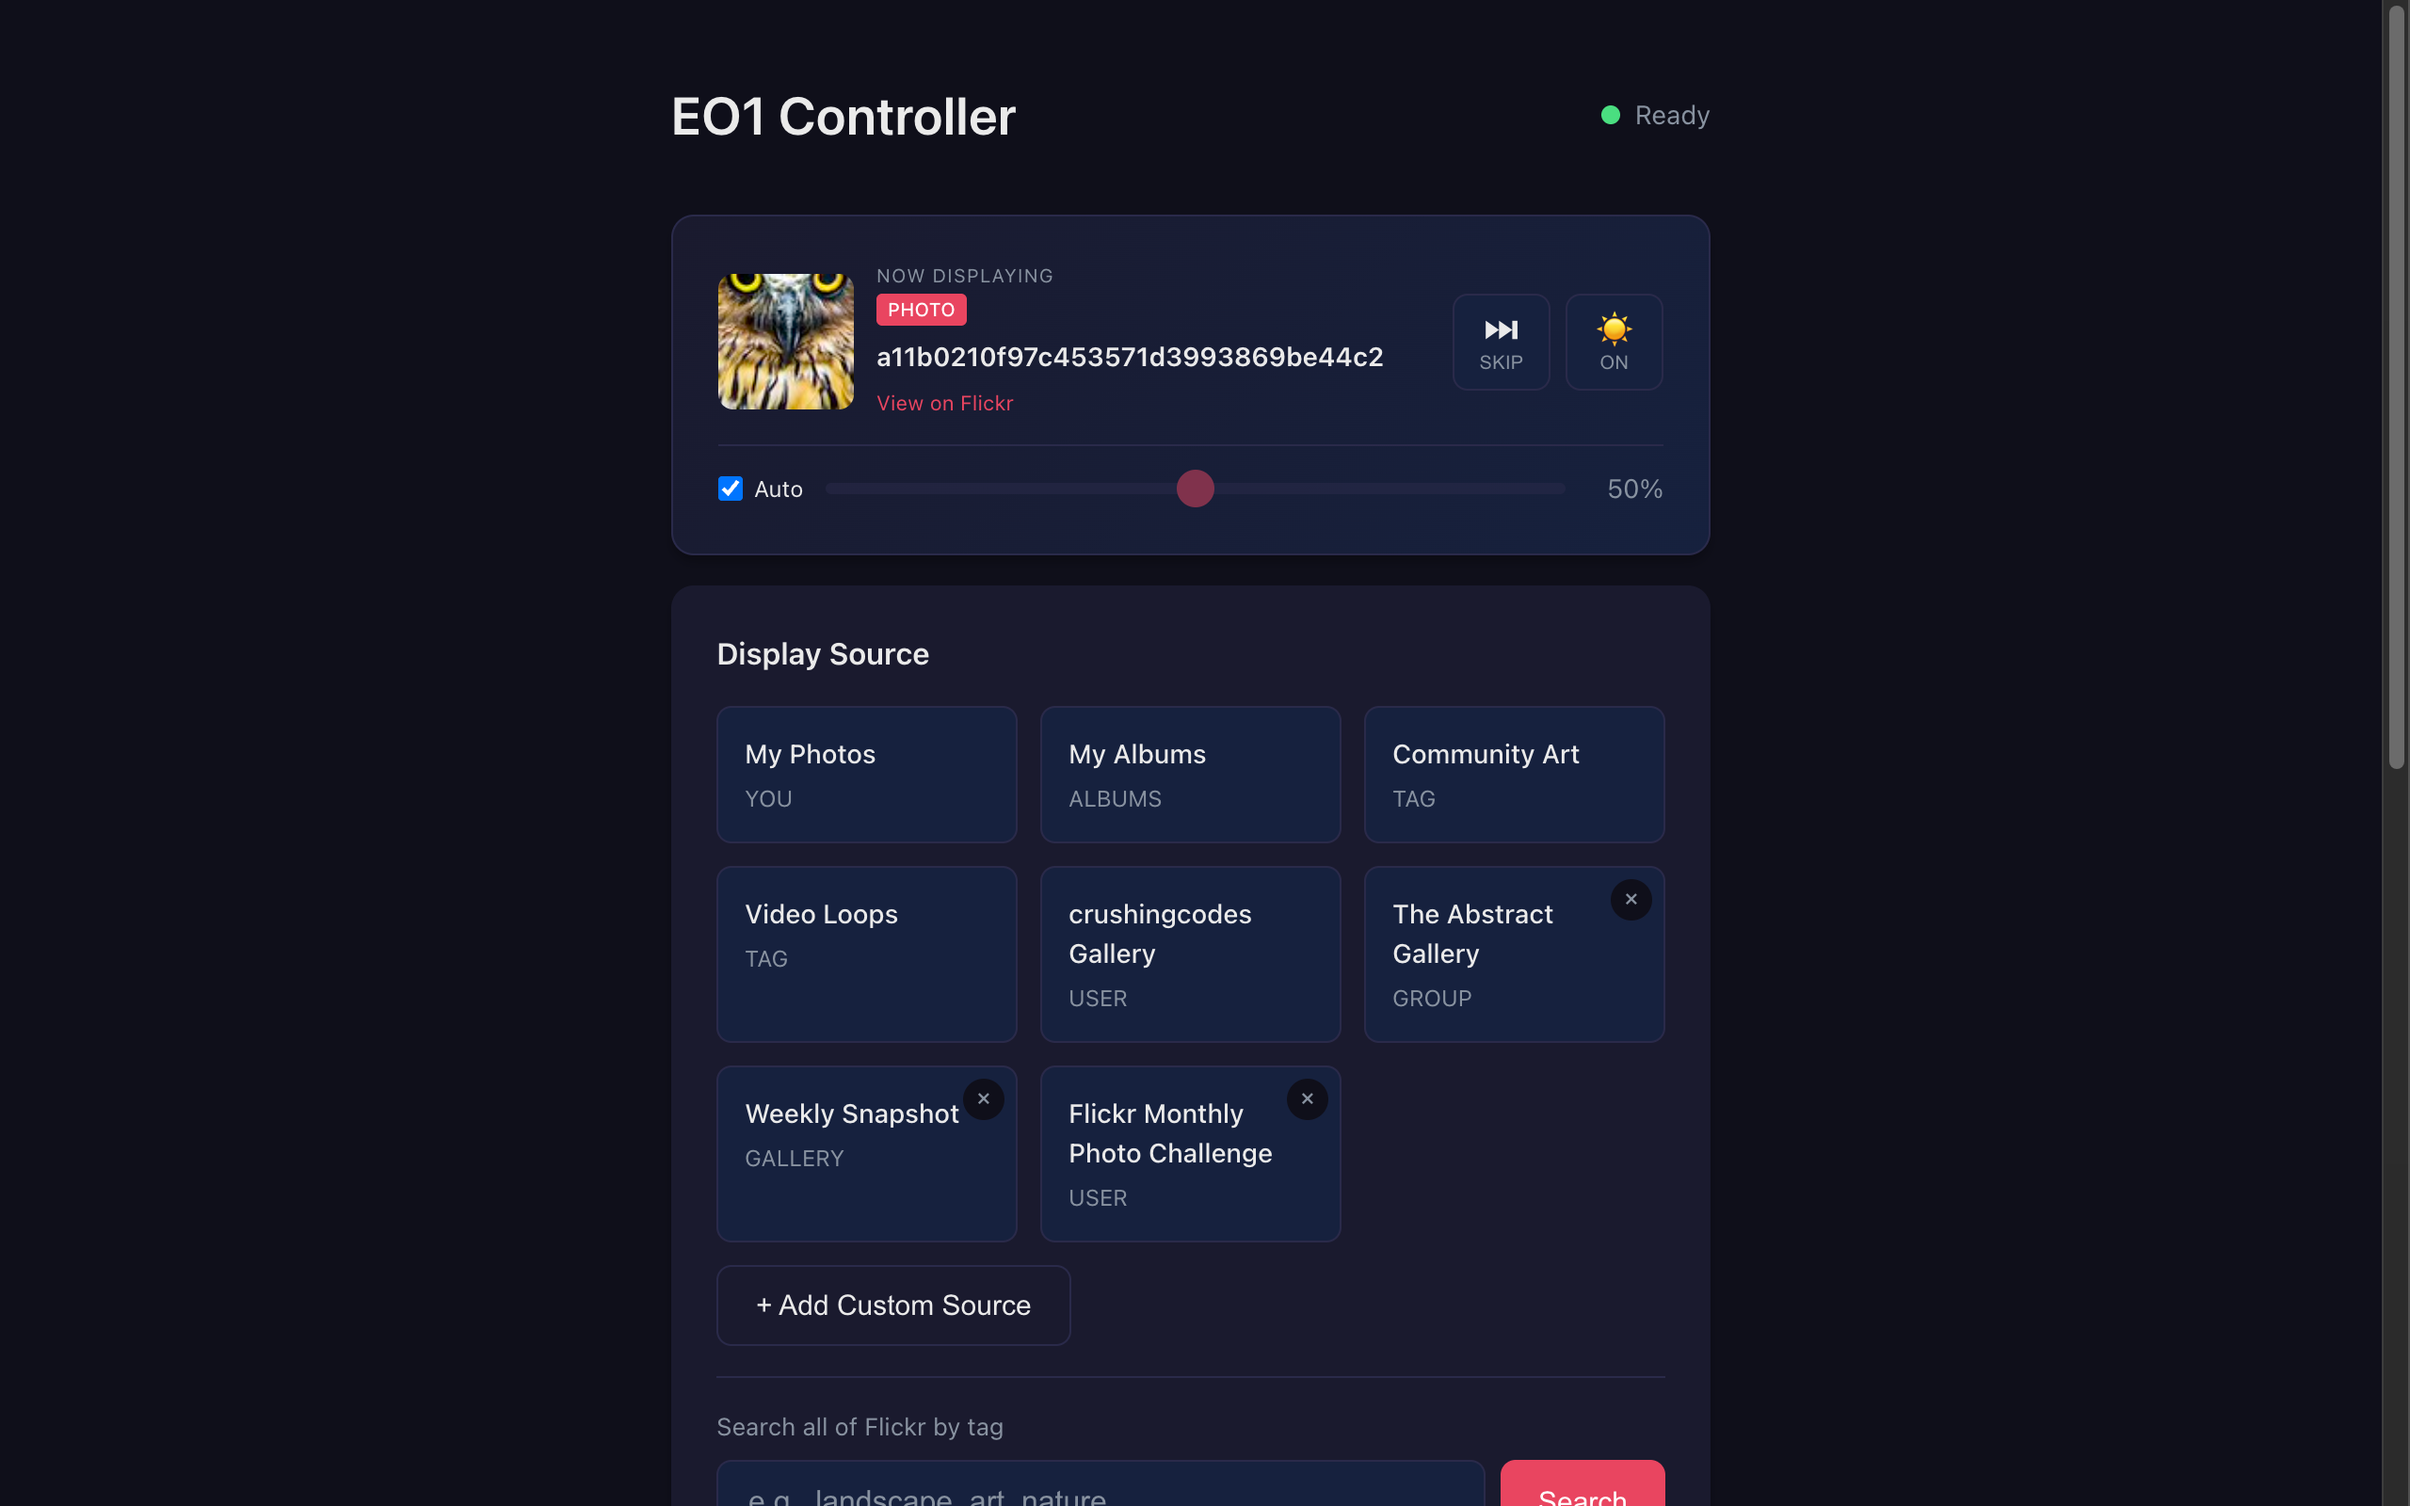
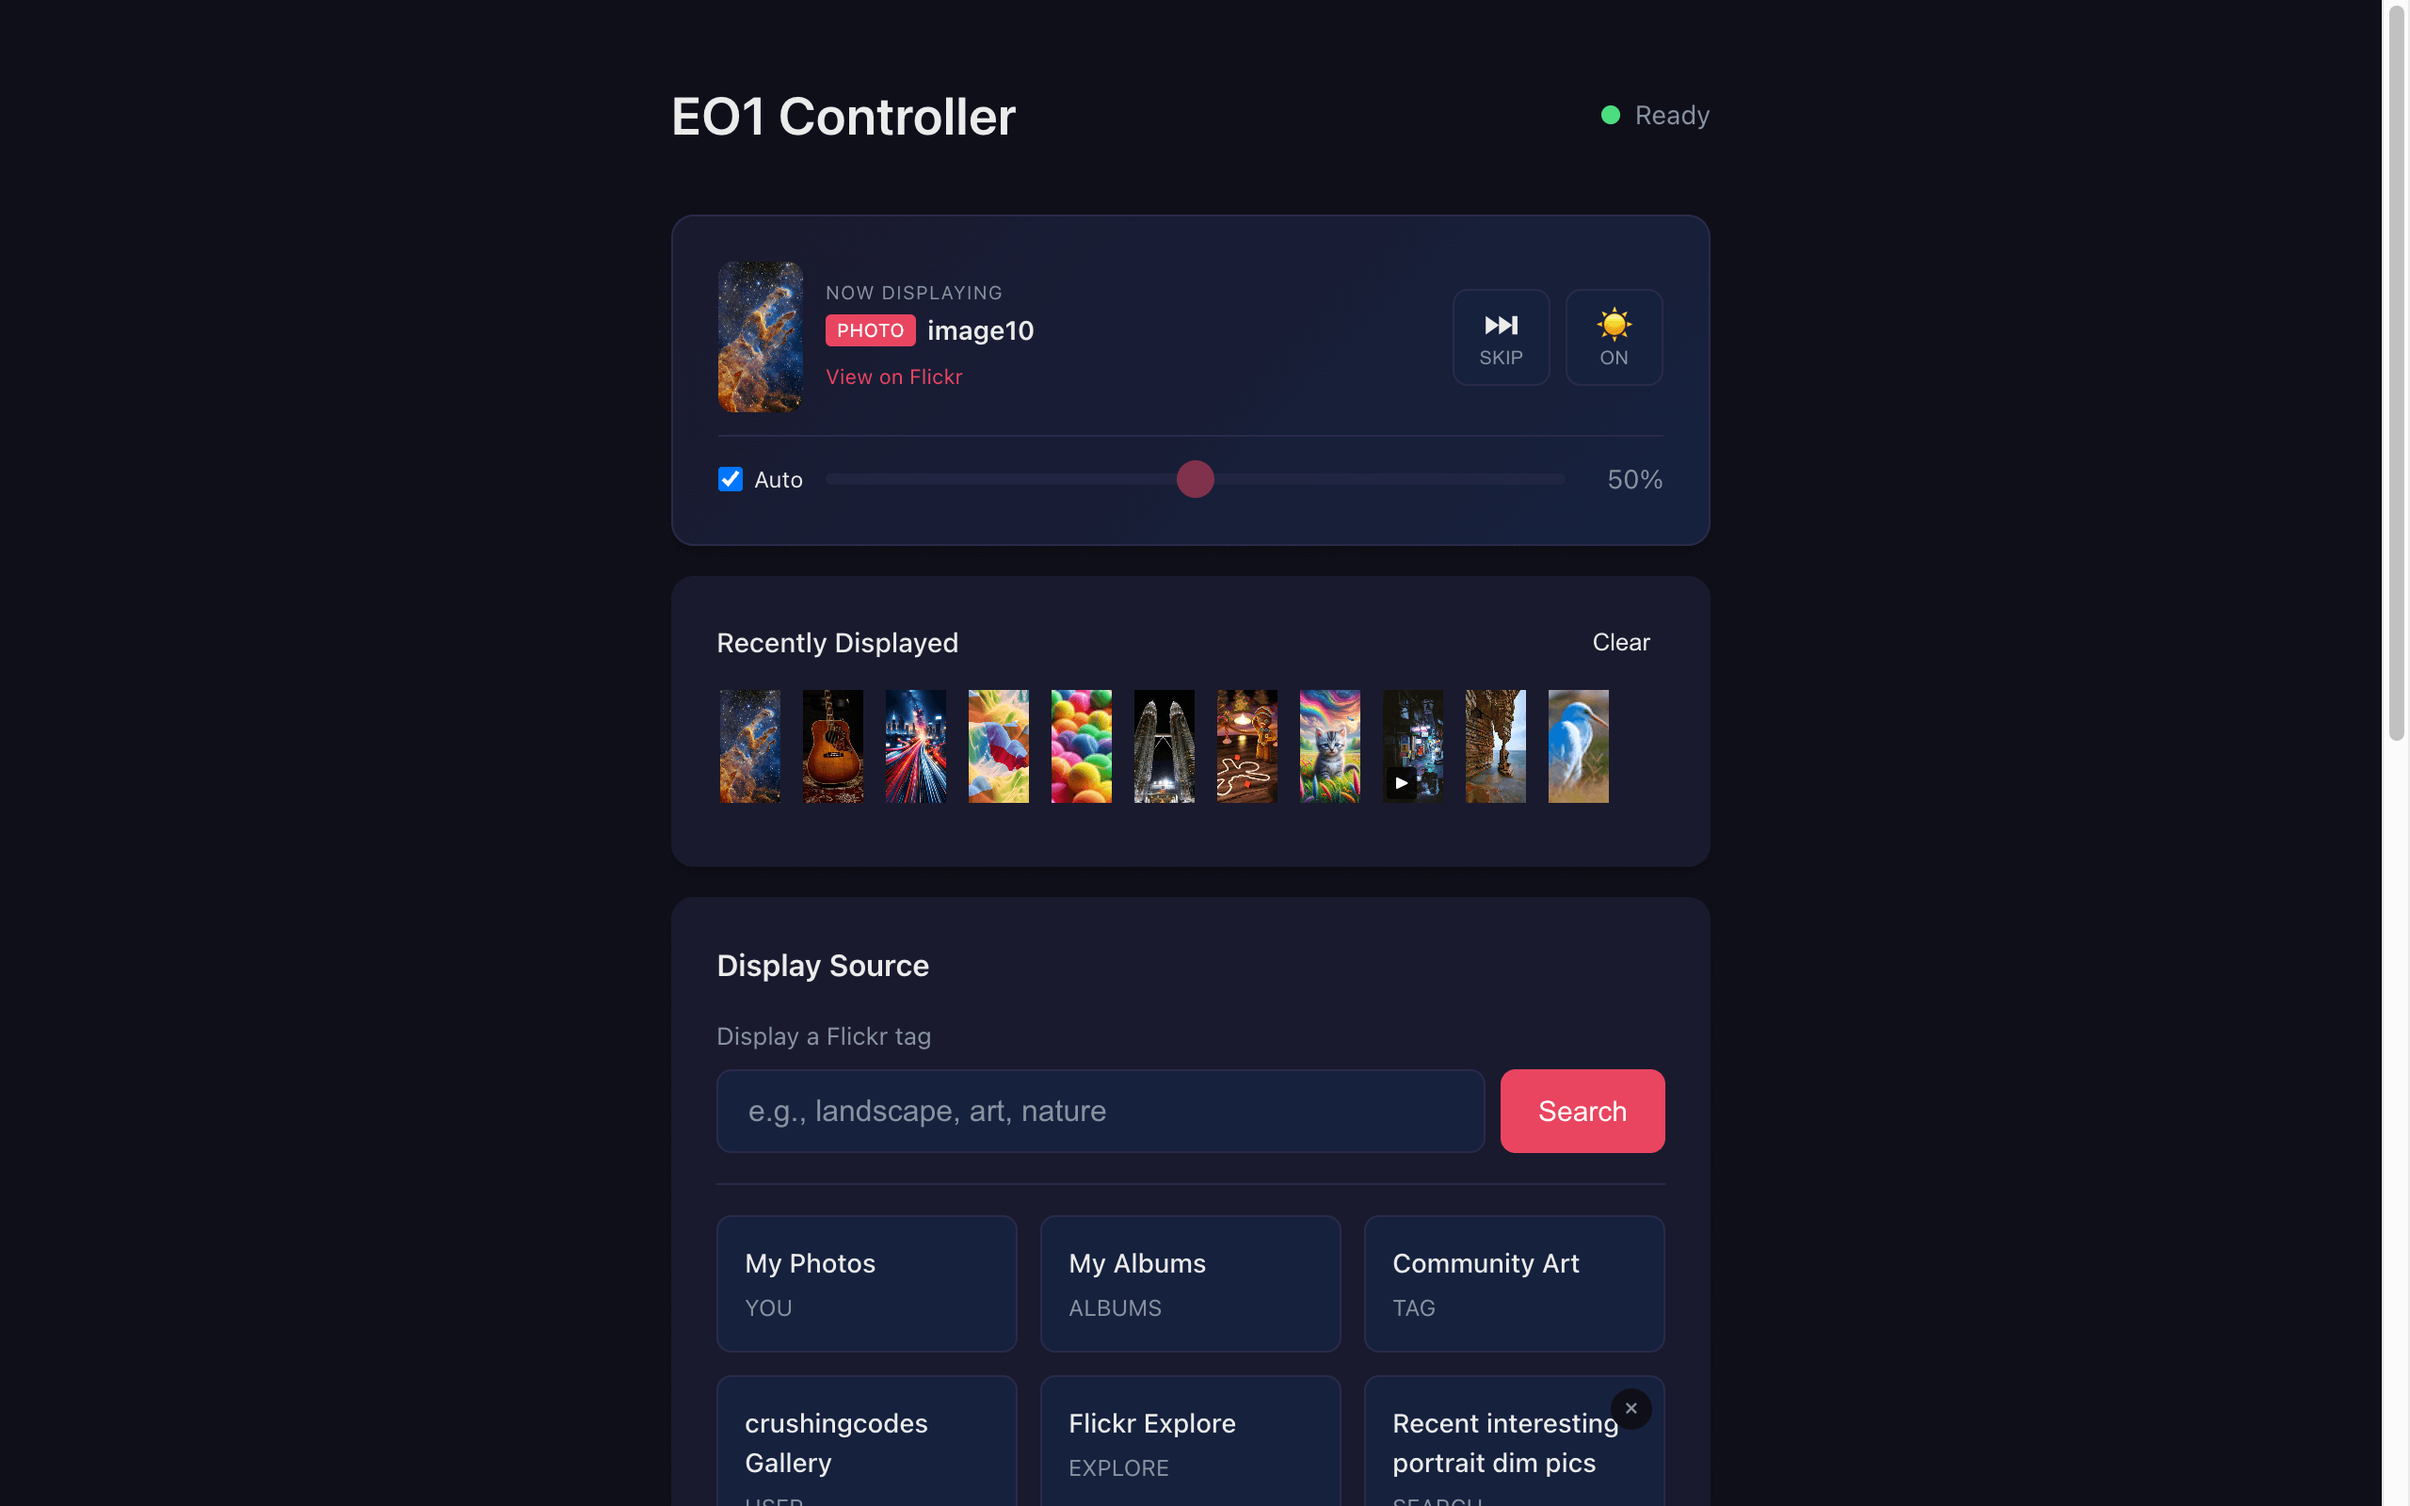
Update screenshots to showcase new features
- Add main-interface screenshot showing history section
- Update photo-grid with Community Art and portrait indicators
- Update photo-preview with nebula/galaxy image
- README now displays all three screenshots

🤖 Generated with [Claude Code](https://claude.com/claude-code)

diff --git a/README.md b/README.md
@@ -3,8 +3,9 @@
 A web-based interface for controlling the Electric Objects EO1 digital art display. Allows control from any device eg iPhone via Tailscale.
 
 <p align="center">
-  <img src="screenshots/photo-grid.png" width="48%" alt="Photo Grid">
-  <img src="screenshots/photo-preview.png" width="48%" alt="Photo Preview">
+  <img src="screenshots/main-interface.png" width="32%" alt="Main Interface">
+  <img src="screenshots/photo-grid.png" width="32%" alt="Photo Grid">
+  <img src="screenshots/photo-preview.png" width="32%" alt="Photo Preview">
 </p>
 
 ## Quick Start
